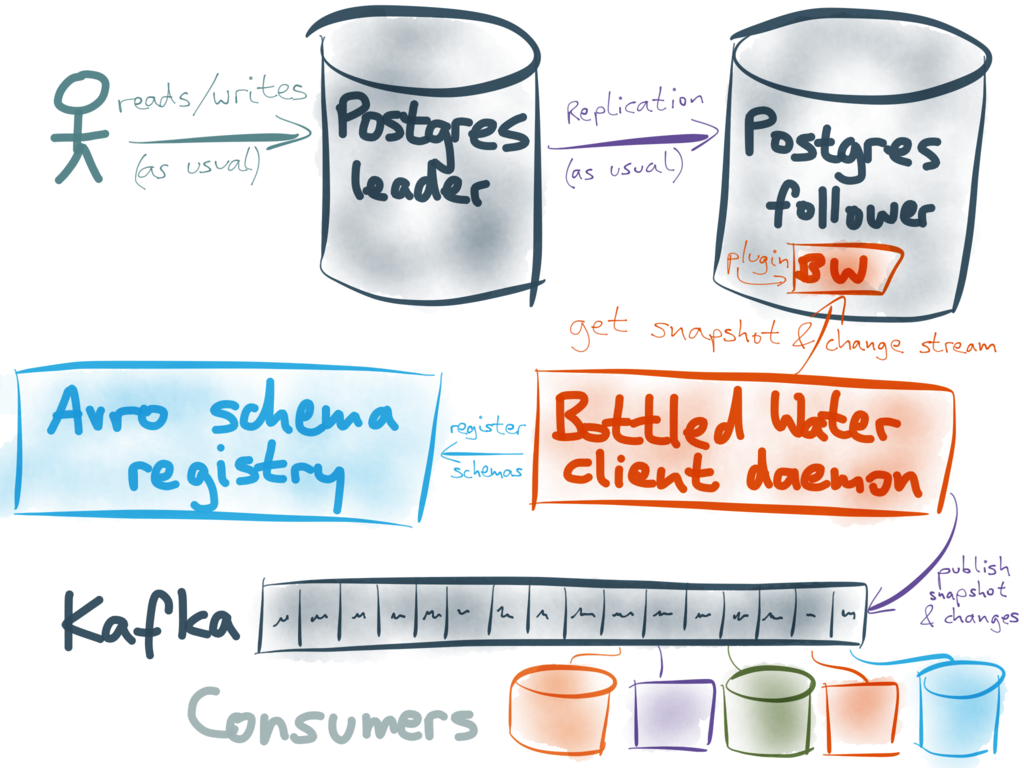
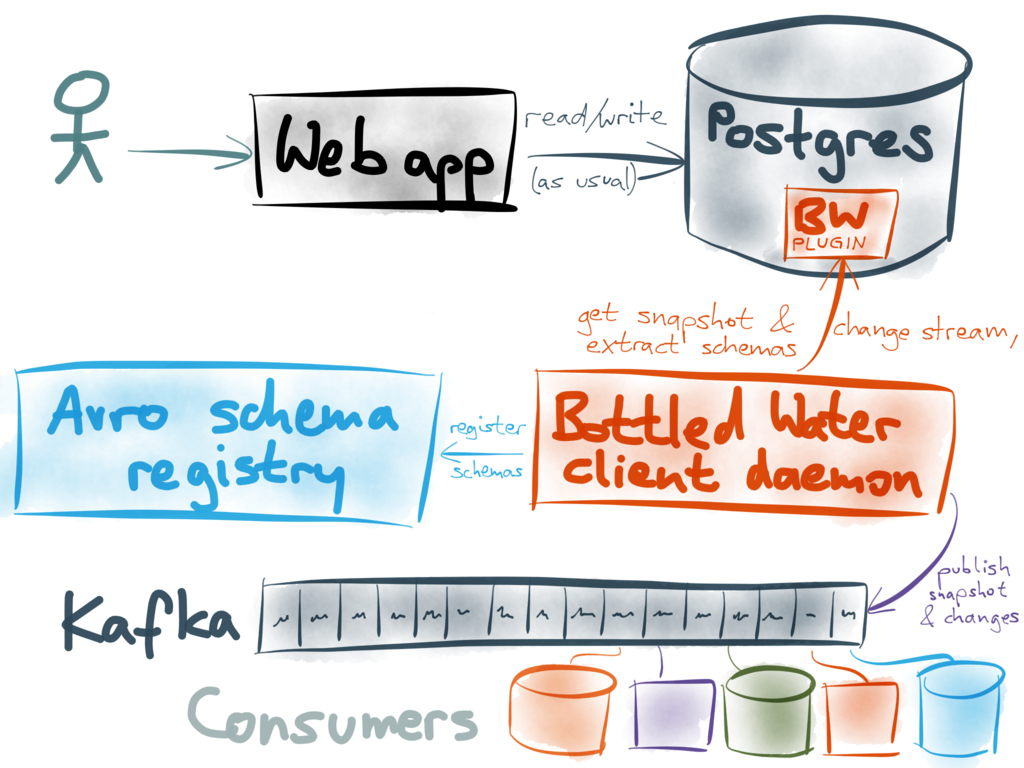
Correct a mistake in BW post

Changed region(s): [[0.125, 0.0, 0.9688, 0.4688]]

diff --git a/src/_posts/2015-04-23-bottled-water-real-time-postgresql-kafka.md b/src/_posts/2015-04-23-bottled-water-real-time-postgresql-kafka.md
@@ -237,9 +237,10 @@ database server, so it's not something to be undertaken lightly. I understand th
 administrator will be scared by the prospect of running custom code inside the database server.
 Unfortunately, this is the only way logical decoding can currently be used.
 
-Fortunately, you don't have to install the plugin on your leader database — you can just use
-a follower (replica, hot standby) for that purpose. That way you can be sure that the plugin cannot
-corrupt your data, crash the main database instance or affect its performance.
+At the moment, the logical decoding plugin must be installed on the leader database. In principle,
+it would be possible to have it run on a separate follower, so that it cannot impact other clients,
+but the current implementation in Postgres does not allow this. This limitation will hopefully be
+lifted in future versions of Postgres.
 
 <img src="/2015/04/bottledwater-05.png" alt="Bottled Water architecture" width="550" height="412" />
 
